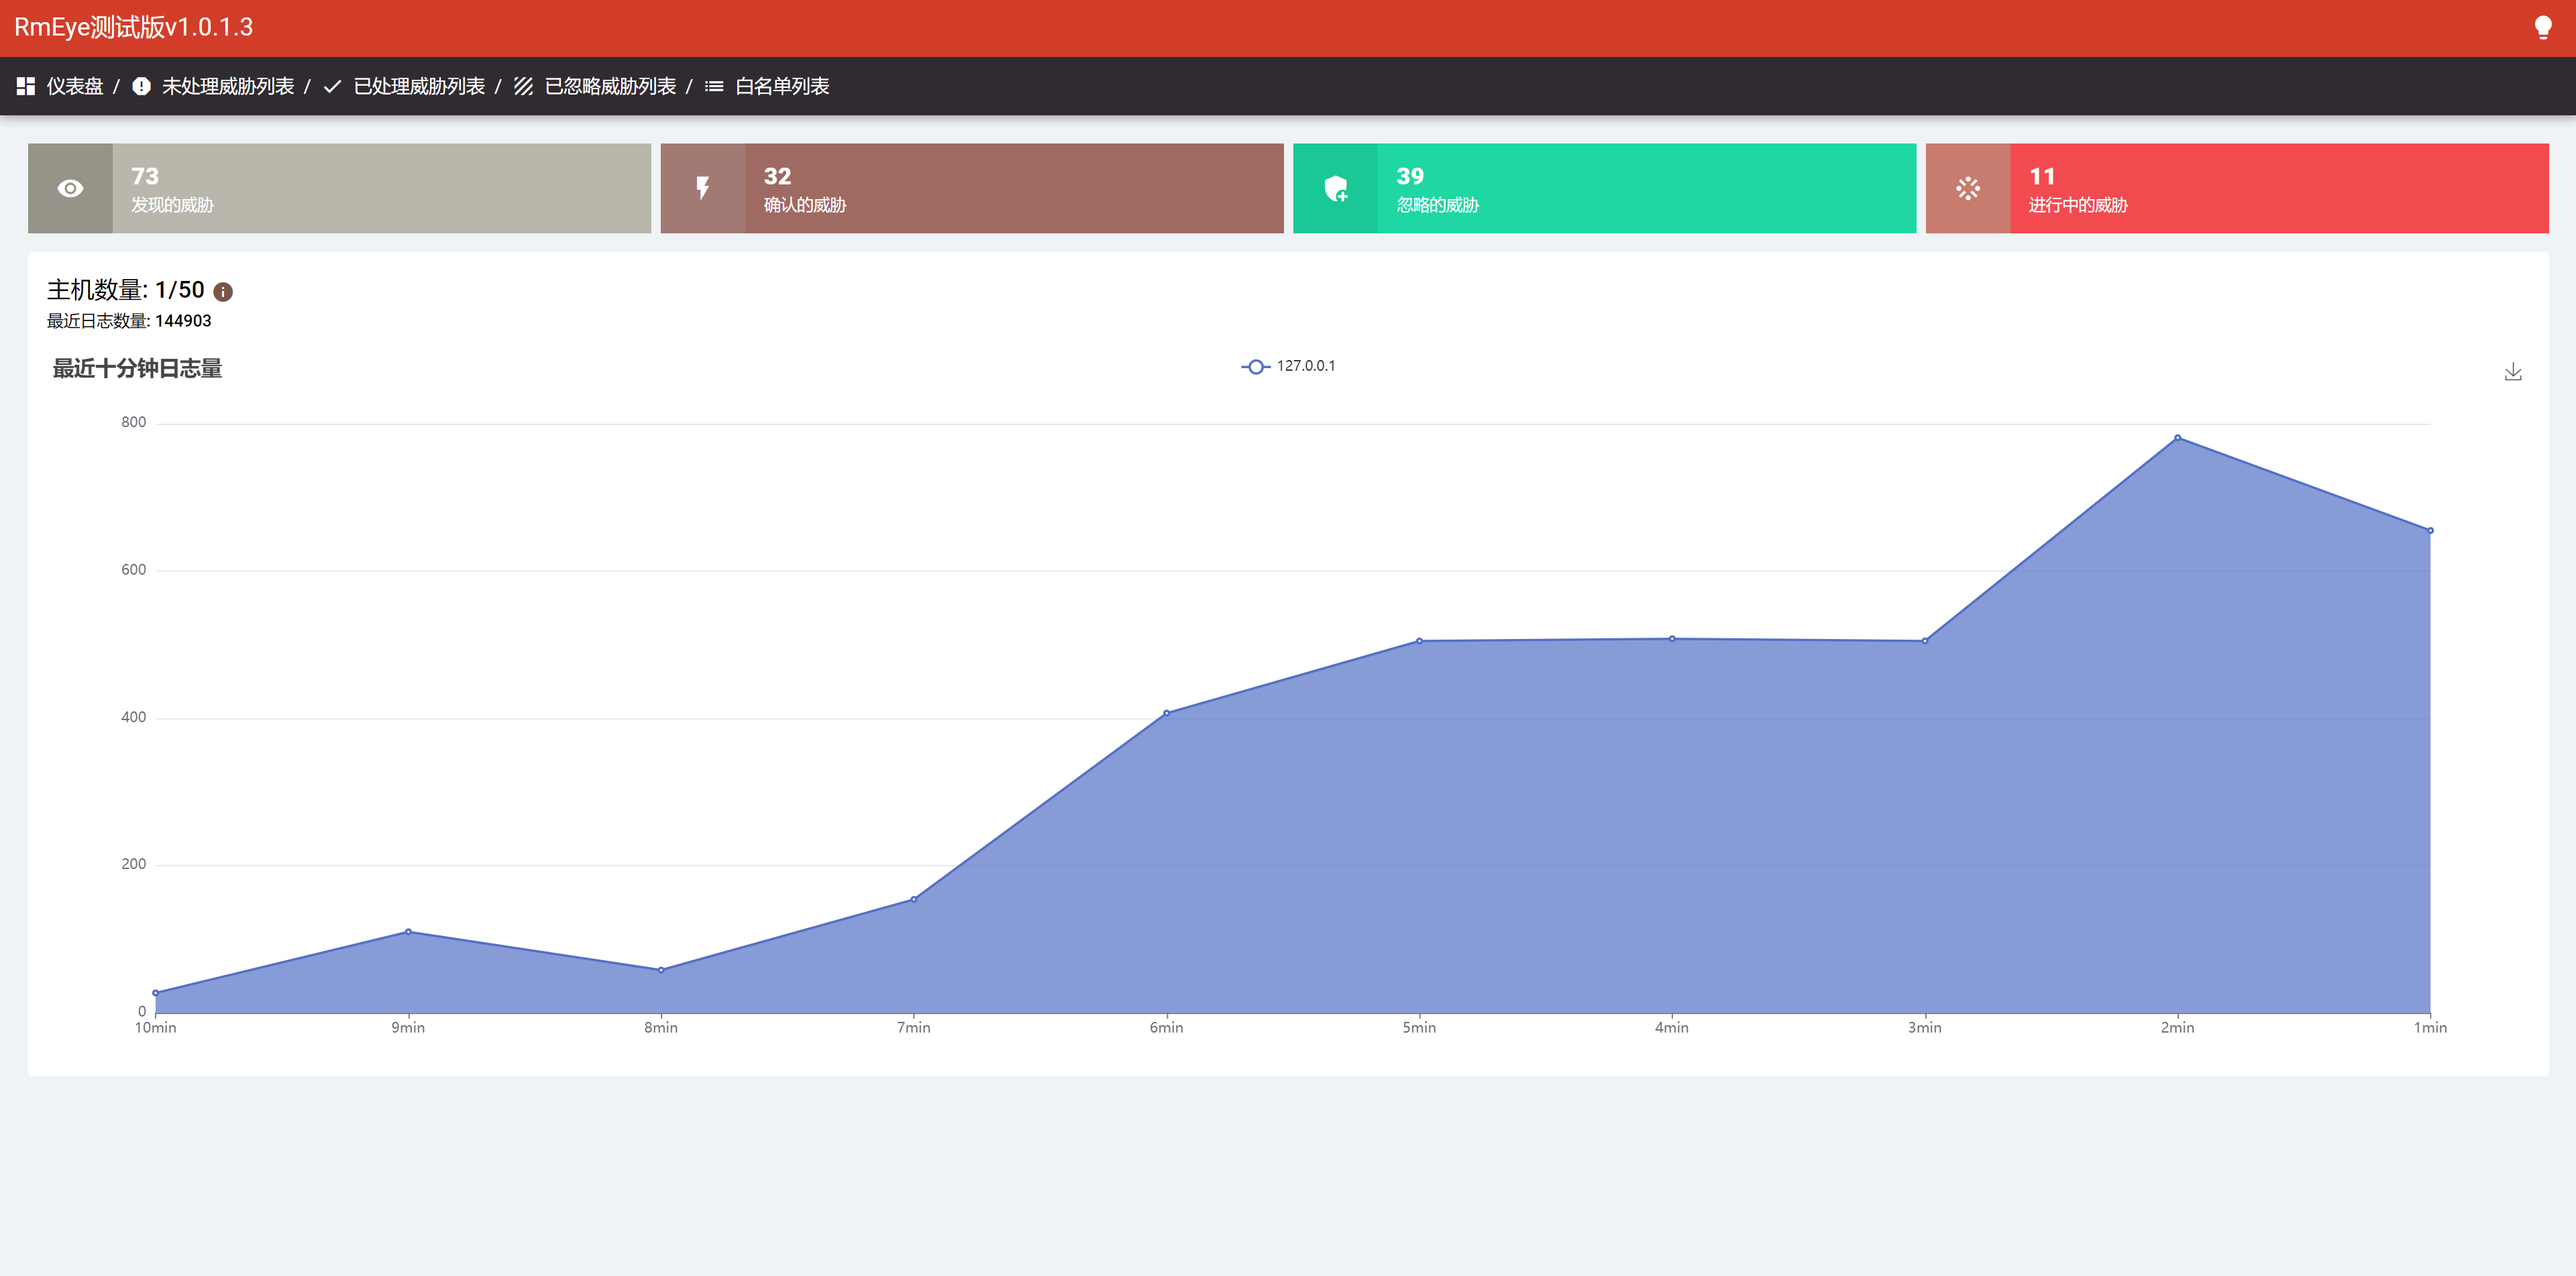
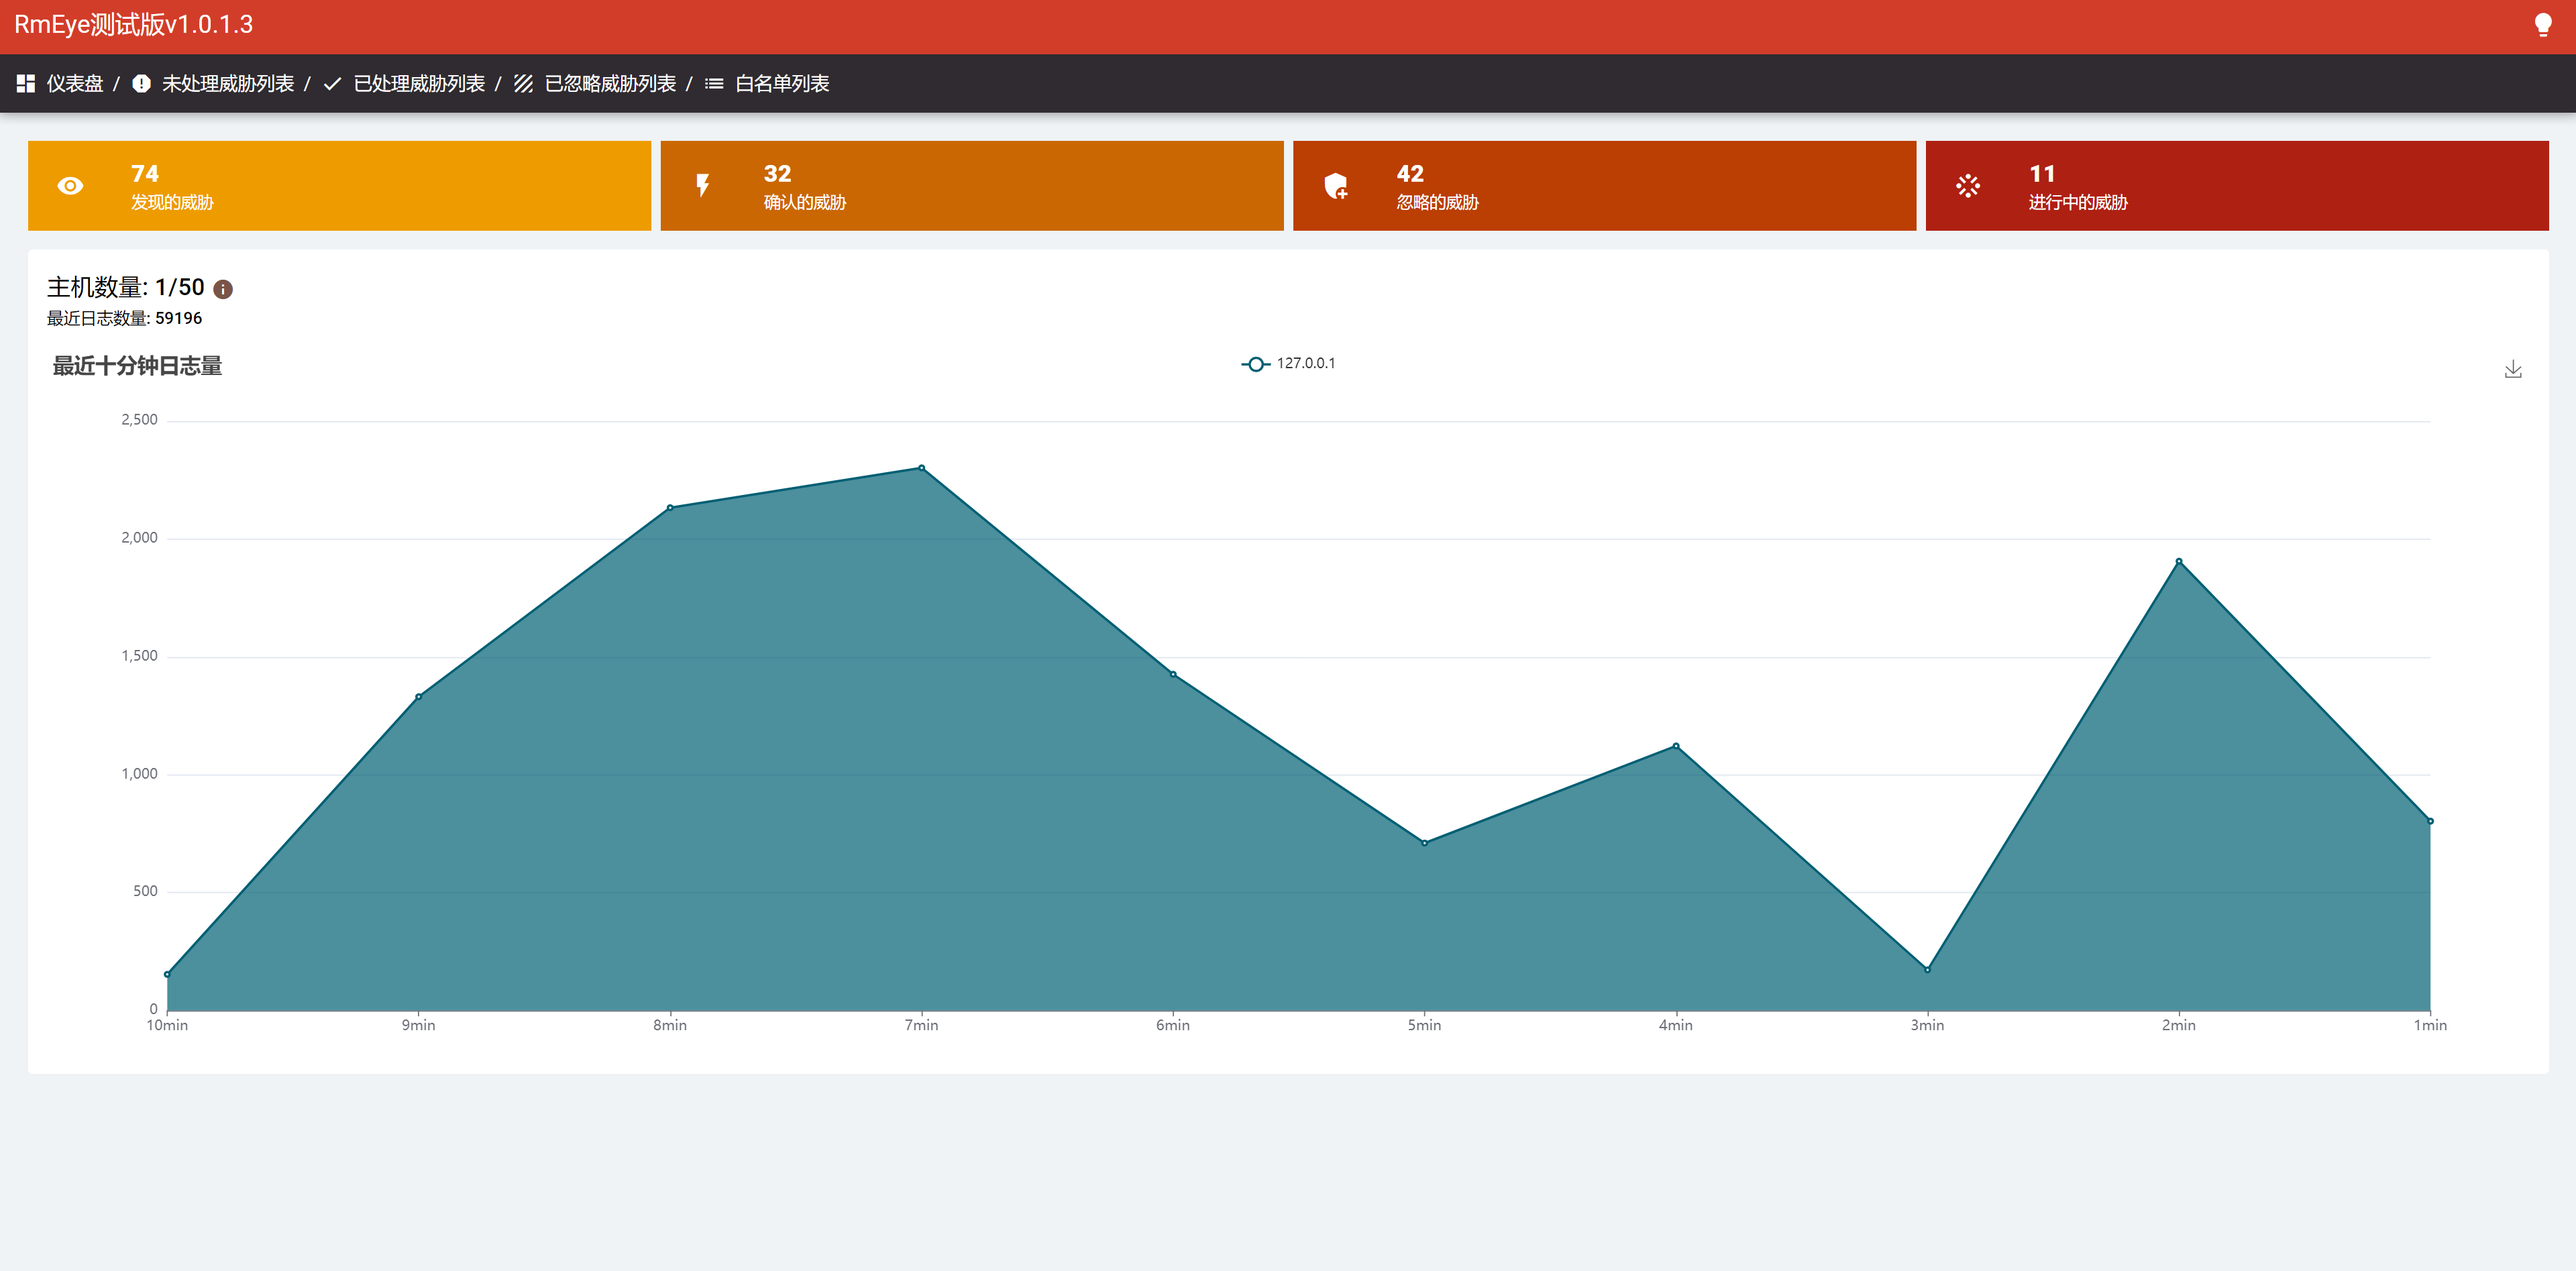
1
1

diff --git a/Server/templates/js/app.7c8d084f.js b/Server/templates/js/app.7c8d084f.js
@@ -1,0 +1,1 @@
+(()=>{"use strict";var e={9942:(e,t,r)=>{var n=r(8880),o=r(9782),a=r(3673);function i(e,t,r,n,o,i){const l=(0,a.up)("router-view");return(0,a.wg)(),(0,a.j4)(l)}const l=(0,a.aZ)({name:"App"});var s=r(4260);const u=(0,s.Z)(l,[["render",i]]),d=u;var c=r(3340),p=r(8339);r(71);const h=[{path:"/",component:()=>Promise.all([r.e(736),r.e(385)]).then(r.bind(r,6385)),children:[{path:"",component:()=>Promise.all([r.e(736),r.e(763)]).then(r.bind(r,1763))}]},{path:"/page",component:()=>Promise.all([r.e(736),r.e(385)]).then(r.bind(r,6385)),children:[{path:"dashboard",component:()=>Promise.all([r.e(736),r.e(763)]).then(r.bind(r,1763))},{path:"index",name:"index",component:()=>Promise.all([r.e(736),r.e(550)]).then(r.bind(r,6550))},{path:"index",name:"whitelist",component:()=>Promise.all([r.e(736),r.e(219)]).then(r.bind(r,4219))}]},{path:"/:catchAll(.*)*",component:()=>Promise.all([r.e(736),r.e(193)]).then(r.bind(r,2193))}],f=h,m=(0,c.BC)((function(){const e=p.r5,t=(0,p.p7)({scrollBehavior:()=>({left:0,top:0}),routes:f,history:e("")});return t}));async function v(e,t){const r="function"===typeof m?await m({}):m,n=e(d);return n.use(o.Z,t),{app:n,router:r}}const b={config:{}};async function g({app:e,router:t}){e.use(t),e.mount("#q-app")}v(n.ri,b).then(g)}},t={};function r(n){var o=t[n];if(void 0!==o)return o.exports;var a=t[n]={exports:{}};return e[n](a,a.exports,r),a.exports}r.m=e,(()=>{var e=[];r.O=(t,n,o,a)=>{if(!n){var i=1/0;for(d=0;d<e.length;d++){for(var[n,o,a]=e[d],l=!0,s=0;s<n.length;s++)(!1&a||i>=a)&&Object.keys(r.O).every((e=>r.O[e](n[s])))?n.splice(s--,1):(l=!1,a<i&&(i=a));if(l){e.splice(d--,1);var u=o();void 0!==u&&(t=u)}}return t}a=a||0;for(var d=e.length;d>0&&e[d-1][2]>a;d--)e[d]=e[d-1];e[d]=[n,o,a]}})(),(()=>{r.n=e=>{var t=e&&e.__esModule?()=>e["default"]:()=>e;return r.d(t,{a:t}),t}})(),(()=>{r.d=(e,t)=>{for(var n in t)r.o(t,n)&&!r.o(e,n)&&Object.defineProperty(e,n,{enumerable:!0,get:t[n]})}})(),(()=>{r.f={},r.e=e=>Promise.all(Object.keys(r.f).reduce(((t,n)=>(r.f[n](e,t),t)),[]))})(),(()=>{r.u=e=>"js/"+e+"."+{193:"cfdf09ec",219:"5909d40f",385:"47f54bbe",550:"48260526",763:"2901e17c"}[e]+".js"})(),(()=>{r.miniCssF=e=>"css/"+({143:"app",736:"vendor"}[e]||e)+"."+{143:"31d6cfe0",385:"5d807baf",736:"5b8581f0"}[e]+".css"})(),(()=>{r.g=function(){if("object"===typeof globalThis)return globalThis;try{return this||new Function("return this")()}catch(e){if("object"===typeof window)return window}}()})(),(()=>{r.o=(e,t)=>Object.prototype.hasOwnProperty.call(e,t)})(),(()=>{var e={},t="syseye:";r.l=(n,o,a,i)=>{if(e[n])e[n].push(o);else{var l,s;if(void 0!==a)for(var u=document.getElementsByTagName("script"),d=0;d<u.length;d++){var c=u[d];if(c.getAttribute("src")==n||c.getAttribute("data-webpack")==t+a){l=c;break}}l||(s=!0,l=document.createElement("script"),l.charset="utf-8",l.timeout=120,r.nc&&l.setAttribute("nonce",r.nc),l.setAttribute("data-webpack",t+a),l.src=n),e[n]=[o];var p=(t,r)=>{l.onerror=l.onload=null,clearTimeout(h);var o=e[n];if(delete e[n],l.parentNode&&l.parentNode.removeChild(l),o&&o.forEach((e=>e(r))),t)return t(r)},h=setTimeout(p.bind(null,void 0,{type:"timeout",target:l}),12e4);l.onerror=p.bind(null,l.onerror),l.onload=p.bind(null,l.onload),s&&document.head.appendChild(l)}}})(),(()=>{r.r=e=>{"undefined"!==typeof Symbol&&Symbol.toStringTag&&Object.defineProperty(e,Symbol.toStringTag,{value:"Module"}),Object.defineProperty(e,"__esModule",{value:!0})}})(),(()=>{r.p=""})(),(()=>{var e=(e,t,r,n)=>{var o=document.createElement("link");o.rel="stylesheet",o.type="text/css";var a=a=>{if(o.onerror=o.onload=null,"load"===a.type)r();else{var i=a&&("load"===a.type?"missing":a.type),l=a&&a.target&&a.target.href||t,s=new Error("Loading CSS chunk "+e+" failed.\n("+l+")");s.code="CSS_CHUNK_LOAD_FAILED",s.type=i,s.request=l,o.parentNode.removeChild(o),n(s)}};return o.onerror=o.onload=a,o.href=t,document.head.appendChild(o),o},t=(e,t)=>{for(var r=document.getElementsByTagName("link"),n=0;n<r.length;n++){var o=r[n],a=o.getAttribute("data-href")||o.getAttribute("href");if("stylesheet"===o.rel&&(a===e||a===t))return o}var i=document.getElementsByTagName("style");for(n=0;n<i.length;n++){o=i[n],a=o.getAttribute("data-href");if(a===e||a===t)return o}},n=n=>new Promise(((o,a)=>{var i=r.miniCssF(n),l=r.p+i;if(t(i,l))return o();e(n,l,o,a)})),o={143:0};r.f.miniCss=(e,t)=>{var r={385:1};o[e]?t.push(o[e]):0!==o[e]&&r[e]&&t.push(o[e]=n(e).then((()=>{o[e]=0}),(t=>{throw delete o[e],t})))}})(),(()=>{var e={143:0};r.f.j=(t,n)=>{var o=r.o(e,t)?e[t]:void 0;if(0!==o)if(o)n.push(o[2]);else{var a=new Promise(((r,n)=>o=e[t]=[r,n]));n.push(o[2]=a);var i=r.p+r.u(t),l=new Error,s=n=>{if(r.o(e,t)&&(o=e[t],0!==o&&(e[t]=void 0),o)){var a=n&&("load"===n.type?"missing":n.type),i=n&&n.target&&n.target.src;l.message="Loading chunk "+t+" failed.\n("+a+": "+i+")",l.name="ChunkLoadError",l.type=a,l.request=i,o[1](l)}};r.l(i,s,"chunk-"+t,t)}},r.O.j=t=>0===e[t];var t=(t,n)=>{var o,a,[i,l,s]=n,u=0;if(i.some((t=>0!==e[t]))){for(o in l)r.o(l,o)&&(r.m[o]=l[o]);if(s)var d=s(r)}for(t&&t(n);u<i.length;u++)a=i[u],r.o(e,a)&&e[a]&&e[a][0](),e[a]=0;return r.O(d)},n=globalThis["webpackChunksyseye"]=globalThis["webpackChunksyseye"]||[];n.forEach(t.bind(null,0)),n.push=t.bind(null,n.push.bind(n))})();var n=r.O(void 0,[736],(()=>r(9942)));n=r.O(n)})();

diff --git a/Server/templates/js/763.2901e17c.js b/Server/templates/js/763.2901e17c.js
@@ -1,0 +1,1 @@
+"use strict";(globalThis["webpackChunksyseye"]=globalThis["webpackChunksyseye"]||[]).push([[763],{1763:(t,e,s)=>{s.r(e),s.d(e,{default:()=>Z});var a=s(3673),i=s(2323);const o={class:"q-gutter-md q-mb-sm q-pa-lg"},l={class:"row q-col-gutter-sm"},n={class:"text-h6"},r=(0,a.Uk)(" 由于python+sqlite数据库作为后端,理论上最高支持的主机数量为50. "),c={class:"text-subtitle2"},h={ref:"main_draw",style:{width:"100%",height:"600px"}};function m(t,e,s,m,u,d){const p=(0,a.up)("q-icon"),w=(0,a.up)("q-item-section"),g=(0,a.up)("q-item-label"),_=(0,a.up)("q-item"),b=(0,a.up)("q-card-section"),f=(0,a.up)("q-card"),y=(0,a.up)("q-banner"),v=(0,a.up)("q-popup-proxy");return(0,a.wg)(),(0,a.iD)("div",o,[(0,a._)("div",null,[(0,a.Wm)(f,{class:"bg-transparent no-shadow no-border"},{default:(0,a.w5)((()=>[(0,a.Wm)(b,{class:"q-pa-none"},{default:(0,a.w5)((()=>[(0,a._)("div",l,[((0,a.wg)(!0),(0,a.iD)(a.HY,null,(0,a.Ko)(t.Threatitems,((t,e)=>((0,a.wg)(),(0,a.iD)("div",{key:e,class:"col-md-3 col-sm-12 col-xs-12"},[(0,a.Wm)(_,{style:(0,i.j5)(`background-color: ${t.color1}`),class:"q-pa-none"},{default:(0,a.w5)((()=>[(0,a.Wm)(w,{side:"",style:(0,i.j5)(`background-color: ${t.color2}`),class:"q-pa-lg q-mr-none text-white"},{default:(0,a.w5)((()=>[(0,a.Wm)(p,{name:t.icon,color:"white",size:"24px"},null,8,["name"])])),_:2},1032,["style"]),(0,a.Wm)(w,{class:"q-pa-md q-ml-none text-white"},{default:(0,a.w5)((()=>[(0,a.Wm)(g,{class:"text-white text-h6 text-weight-bolder"},{default:(0,a.w5)((()=>[(0,a.Uk)((0,i.zw)(t.value),1)])),_:2},1024),(0,a.Wm)(g,null,{default:(0,a.w5)((()=>[(0,a.Uk)((0,i.zw)(t.title),1)])),_:2},1024)])),_:2},1024)])),_:2},1032,["style"])])))),128))])])),_:1})])),_:1})]),(0,a.Wm)(f,{class:"no-shadow",style:{background:"rbg(255,255,255)"}},{default:(0,a.w5)((()=>[(0,a.Wm)(b,null,{default:(0,a.w5)((()=>[(0,a._)("div",n,[(0,a.Uk)(" 主机数量: "+(0,i.zw)(t.threatStatistics.host_num)+"/50 ",1),(0,a.Wm)(p,{name:"info",class:"text-brown cursor-pointer"},{default:(0,a.w5)((()=>[(0,a.Wm)(v,{"transition-show":"flip-up","transition-hide":"flip-down"},{default:(0,a.w5)((()=>[(0,a.Wm)(y,{class:"bg-brown text-white"},{avatar:(0,a.w5)((()=>[(0,a.Wm)(p,{name:"lightbulb"})])),default:(0,a.w5)((()=>[r])),_:1})])),_:1})])),_:1})]),(0,a._)("div",c,"最近日志数量: "+(0,i.zw)(t.threatStatistics.all_log_num),1)])),_:1}),(0,a.Wm)(b,{class:"q-pt-none"},{default:(0,a.w5)((()=>[(0,a._)("div",h," 1 ",512)])),_:1})])),_:1})])}var u=s(52),d=s.n(u),p=s(2256);const w=(0,a.aZ)({name:"Dashboard",data(){return{Threatitems:[{title:"发现的威胁",icon:"remove_red_eye",value:"200",color1:"#EE9B00",color2:"#EE9B00"},{title:"确认的威胁",icon:"flash_on",value:"500",color1:"#CA6702",color2:"#CA6702"},{title:"忽略的威胁",icon:"add_moderator",value:"50",color1:"#BB3E03",color2:"#BB3E03"},{title:"进行中的威胁",icon:"stream",value:"1020",color1:"#AE2012",color2:"#AE2012"}],threatStatistics:{all:1,confirm:0,ingore:1,working:0,host_list:{},host_num:10,all_log_num:647}}},methods:{get_threatStatistics(){d().get("/api/v1/get/threat_statistics",{"Content-Type":"application/json"}).then((t=>{const e=t.data;e.data&&(this.threatStatistics=e.data,this.threatStatistics.host_num=Object.keys(this.threatStatistics.host_list).length,this.Threatitems[0].value=this.threatStatistics.all,this.Threatitems[1].value=this.threatStatistics.confirm,this.Threatitems[2].value=this.threatStatistics.ingore,this.Threatitems[3].value=this.threatStatistics.working,console.log(this.threatStatistics),this.draw())}))},draw(){const t=[],e=[];for(const o in this.threatStatistics.host_list)t.push(o),e.push({itemStyle:{color:"#005F73"},name:o,type:"line",stack:"Total",areaStyle:{},emphasis:{focus:"series"},data:this.threatStatistics.host_list[o].log_num});const s=this.$refs.main_draw,a=p.S1(s),i={title:{text:"最近十分钟日志量"},tooltip:{trigger:"axis",axisPointer:{type:"cross",label:{backgroundColor:"#6a7985"}}},legend:{data:t},toolbox:{feature:{saveAsImage:{}}},grid:{left:"3%",right:"4%",bottom:"3%",containLabel:!0},xAxis:[{type:"category",boundaryGap:!1,data:["10min","9min","8min","7min","6min","5min","4min","3min","2min","1min"]}],yAxis:[{type:"value"}],series:e};a.setOption(i),setTimeout((()=>{a.resize()}),1e3)}},mounted(){this.get_threatStatistics(),setInterval((()=>{this.get_threatStatistics()}),1e4)}});var g=s(4260),_=s(151),b=s(5589),f=s(3414),y=s(2035),v=s(4554),x=s(2350),S=s(3944),q=s(5607),k=s(7518),W=s.n(k);const T=(0,g.Z)(w,[["render",m]]),Z=T;W()(w,"components",{QCard:_.Z,QCardSection:b.Z,QItem:f.Z,QItemSection:y.Z,QIcon:v.Z,QItemLabel:x.Z,QPopupProxy:S.Z,QBanner:q.Z})}}]);

diff --git a/Server/templates/index.html b/Server/templates/index.html
@@ -1,1 +1,1 @@
-<!DOCTYPE html><html><head><title>Duck Sys Eye</title><meta charset=utf-8><meta name=description content=syseye><meta name=format-detection content="telephone=no"><meta name=msapplication-tap-highlight content=no><meta name=viewport content="user-scalable=no,initial-scale=1,maximum-scale=1,minimum-scale=1,width=device-width"><link rel=icon type=image/png sizes=128x128 href=icons/favicon-128x128.png><link rel=icon type=image/png sizes=96x96 href=icons/favicon-96x96.png><link rel=icon type=image/png sizes=32x32 href=icons/favicon-32x32.png><link rel=icon type=image/png sizes=16x16 href=icons/favicon-16x16.png><link rel=icon type=image/ico href=favicon.ico><script defer src=js/vendor.68a7f1bc.js></script><script defer src=js/app.f9d03ded.js></script><link href=css/vendor.5b8581f0.css rel=stylesheet><link href=css/app.31d6cfe0.css rel=stylesheet></head><body><div id=q-app></div></body></html>
+<!DOCTYPE html><html><head><title>Duck Sys Eye</title><meta charset=utf-8><meta name=description content=syseye><meta name=format-detection content="telephone=no"><meta name=msapplication-tap-highlight content=no><meta name=viewport content="user-scalable=no,initial-scale=1,maximum-scale=1,minimum-scale=1,width=device-width"><link rel=icon type=image/png sizes=128x128 href=icons/favicon-128x128.png><link rel=icon type=image/png sizes=96x96 href=icons/favicon-96x96.png><link rel=icon type=image/png sizes=32x32 href=icons/favicon-32x32.png><link rel=icon type=image/png sizes=16x16 href=icons/favicon-16x16.png><link rel=icon type=image/ico href=favicon.ico><script defer src=js/vendor.68a7f1bc.js></script><script defer src=js/app.7c8d084f.js></script><link href=css/vendor.5b8581f0.css rel=stylesheet><link href=css/app.31d6cfe0.css rel=stylesheet></head><body><div id=q-app></div></body></html>

diff --git a/Web/syseye/src/pages/Dashboard.vue b/Web/syseye/src/pages/Dashboard.vue
@@ -63,29 +63,29 @@ export default defineComponent({
         title: '发现的威胁',
         icon: 'remove_red_eye',
         value: '200',
-        color1: '#b9b6ab',
-        color2: '#969388'
+        color1: '#EE9B00',
+        color2: '#EE9B00'
       },
       {
         title: '确认的威胁',
         icon: 'flash_on',
         value: '500',
-        color1: '#9f6a61',
-        color2: '#a27a73'
+        color1: '#CA6702',
+        color2: '#CA6702'
       },
       {
         title: '忽略的威胁',
         icon: 'add_moderator',
         value: '50',
-        color1: '#1fd7a2',
-        color2: '#19C896'
+        color1: '#BB3E03',
+        color2: '#BB3E03'
       },
       {
         title: '进行中的威胁',
         icon: 'stream',
         value: '1020',
-        color1: '#f34a50',
-        color2: '#c77c6f'
+        color1: '#AE2012',
+        color2: '#AE2012'
       }
       ],
       threatStatistics: {
@@ -127,6 +127,9 @@ export default defineComponent({
       for (const key in this.threatStatistics.host_list) {
         hostList.push(key)
         hostLoggedNumList.push({
+          itemStyle: {
+            color: '#005F73'
+          },
           name: key,
           type: 'line',
           stack: 'Total',
